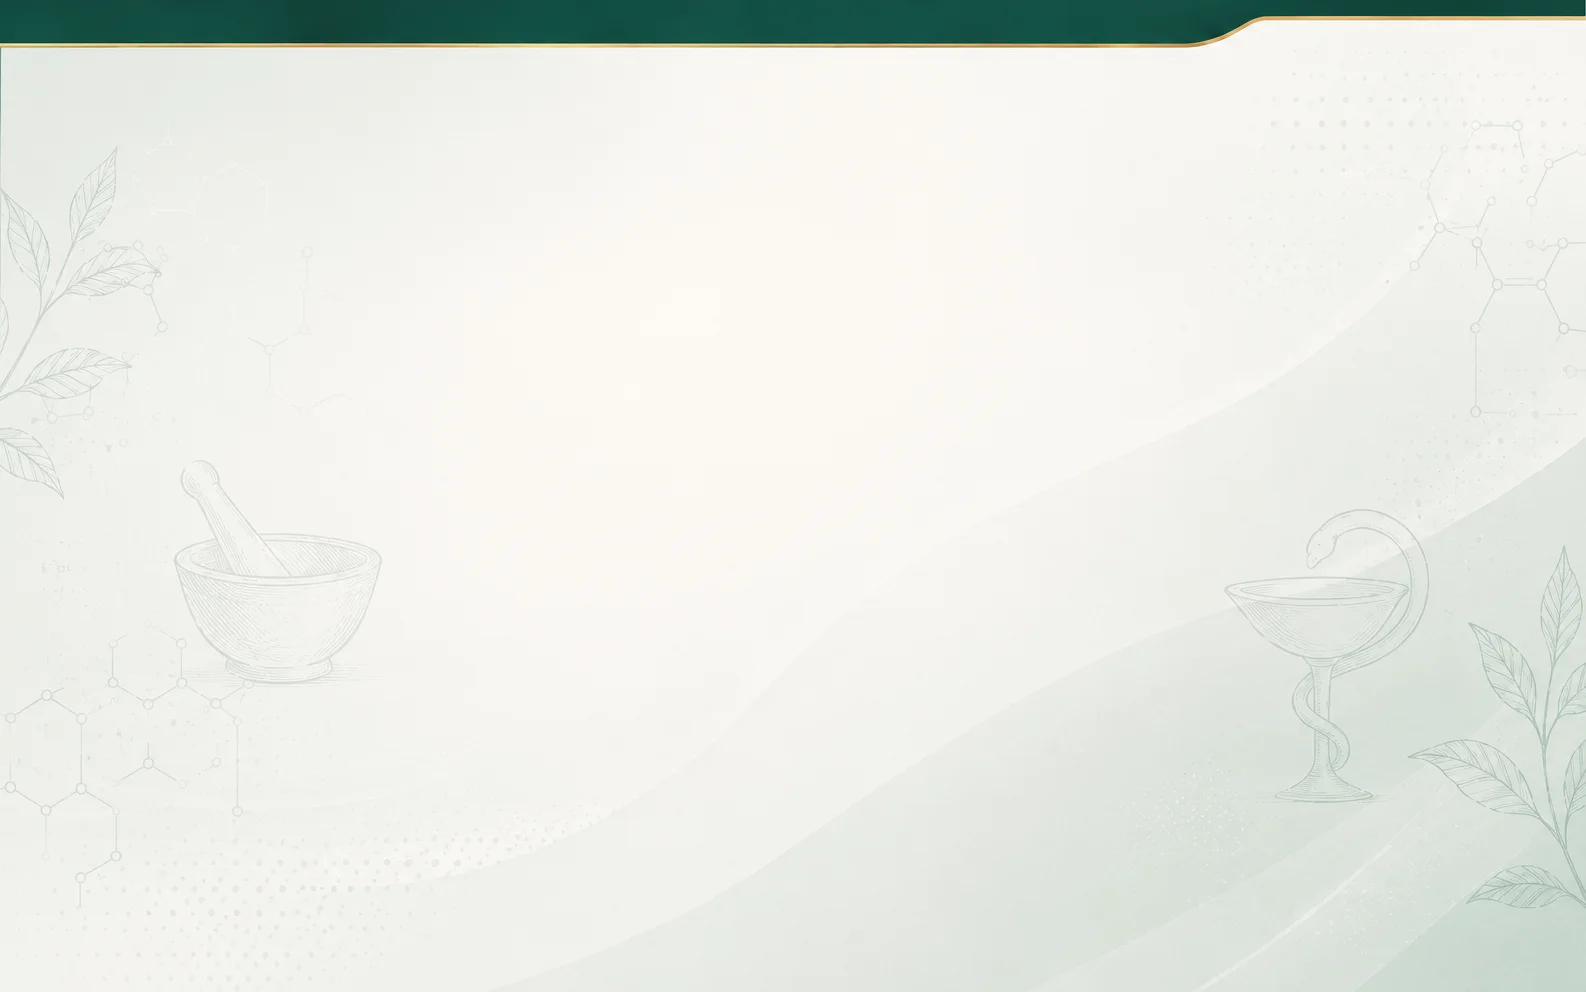
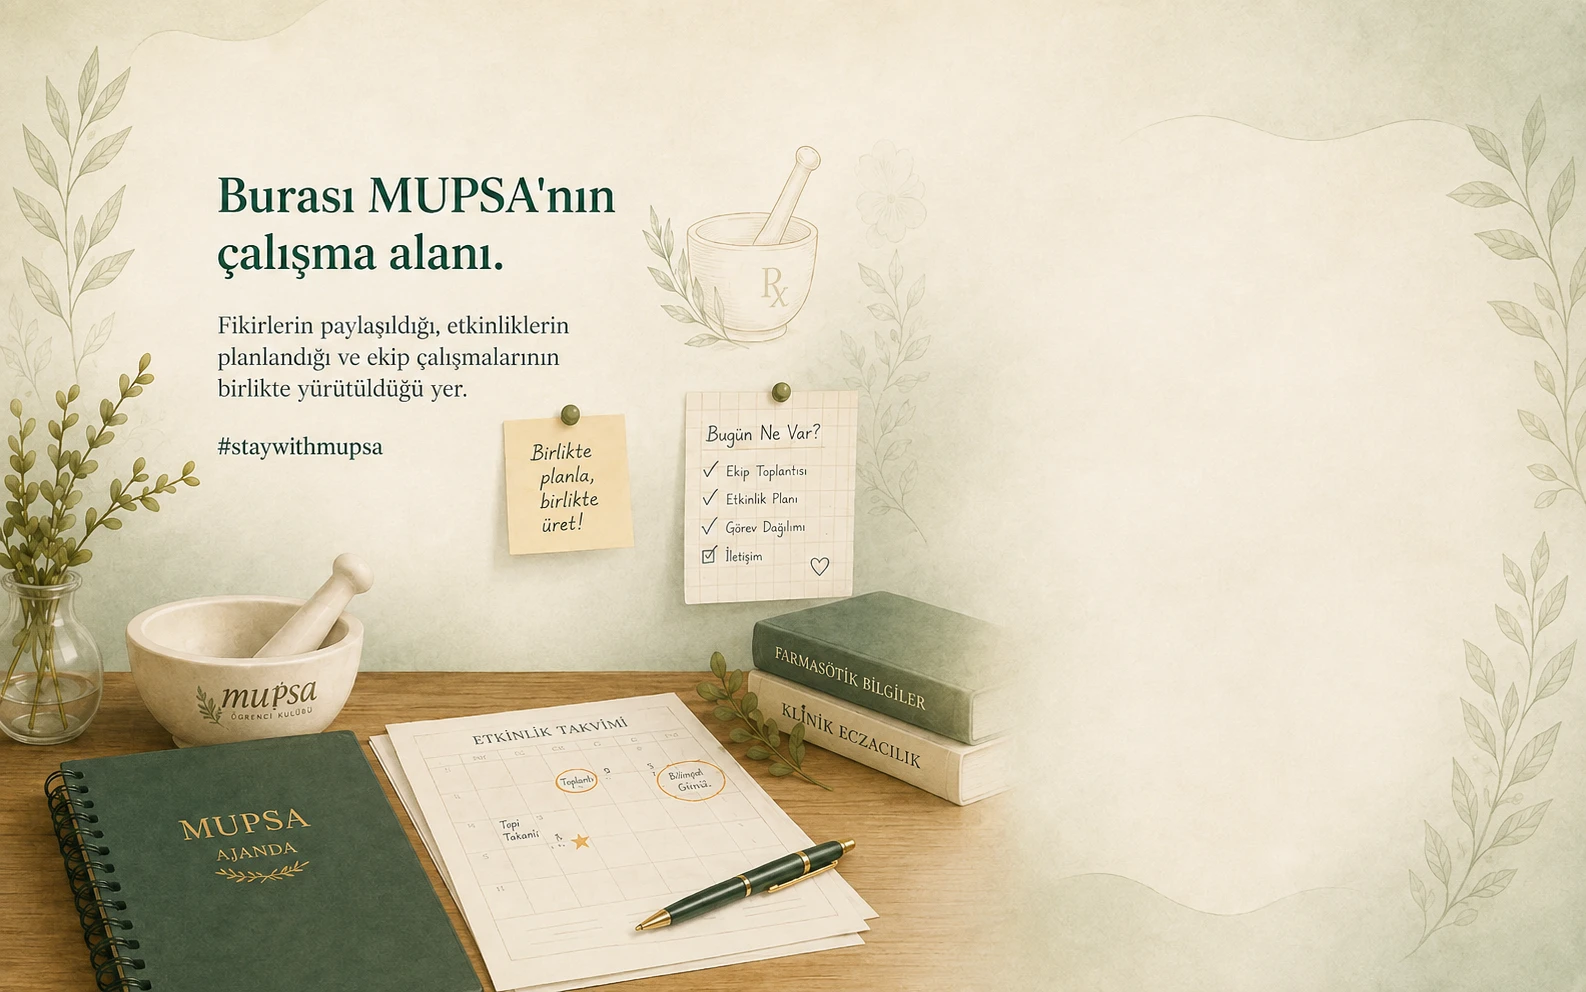
feat: refresh responsive login screen

diff --git a/src/pages/Login.tsx b/src/pages/Login.tsx
@@ -1,4 +1,4 @@
-import { useState, type FormEvent } from 'react'
+import { useState, type FormEvent, type ReactNode } from 'react'
 import { useNavigate } from 'react-router-dom'
 import { supabase } from '../lib/supabaseClient'
 
@@ -31,79 +31,112 @@ export default function Login() {
     navigate('/app')
   }
 
-  return (
-    <div className="relative flex min-h-screen items-center justify-center overflow-hidden bg-canvas px-4 py-12">
-      <picture className="absolute inset-0" aria-hidden="true">
-        <source media="(max-width: 639px)" srcSet="/login-bg-mobile.webp" />
-        <img
-          src="/login-bg-desktop.webp"
-          alt=""
-          className="h-full w-full object-cover object-center"
-        />
-      </picture>
-      <div className="absolute inset-0 bg-white/35" aria-hidden="true" />
-      <div className="relative z-10 w-full max-w-sm">
-        <div className="mb-8 flex flex-col items-center gap-3 text-center">
-          <img src="/mupsa-logo.svg" alt="MUPSA Logo" className="h-16 w-auto object-contain" />
-          <div>
-            <h1 className="text-lg font-semibold text-ink">MUPSA Ekip Koordinasyon</h1>
-            <p className="mt-1 text-sm text-ink-soft">Yönetim kurulu girişi</p>
+  function renderFormFields(idPrefix: string): ReactNode {
+    const emailId = `${idPrefix}-email`
+    const passwordId = `${idPrefix}-password`
+
+    return (
+      <>
+        <div>
+          <label htmlFor={emailId} className="mb-1.5 block text-sm font-medium text-ink">E-posta adresi</label>
+          <input
+            id={emailId}
+            type="email"
+            required
+            autoComplete="email"
+            value={email}
+            onChange={(event) => setEmail(event.target.value)}
+            placeholder="ad.soyad@ornek.com"
+            className="w-full rounded-md border border-canvas-border bg-canvas-surface px-3 py-2.5 text-sm text-ink placeholder:text-ink-soft/60 focus:border-brand focus:outline-none focus:ring-2 focus:ring-brand/20"
+          />
+        </div>
+        <div>
+          <label htmlFor={passwordId} className="mb-1.5 block text-sm font-medium text-ink">Şifre</label>
+          <div className="relative">
+            <input
+              id={passwordId}
+              type={showPassword ? 'text' : 'password'}
+              required
+              autoComplete="current-password"
+              value={password}
+              onChange={(event) => setPassword(event.target.value)}
+              placeholder="••••••••"
+              className="w-full rounded-md border border-canvas-border bg-canvas-surface px-3 py-2.5 pr-14 text-sm text-ink placeholder:text-ink-soft/60 focus:border-brand focus:outline-none focus:ring-2 focus:ring-brand/20"
+            />
+            <button
+              type="button"
+              onClick={() => setShowPassword((visible) => !visible)}
+              className="absolute inset-y-0 right-0 flex items-center pr-3 text-xs font-medium text-ink-soft hover:text-ink focus:outline-none"
+            >
+              {showPassword ? 'Gizle' : 'Göster'}
+            </button>
           </div>
         </div>
-        <div className="rounded-lg border border-canvas-border bg-canvas-surface/95 p-6 shadow-card backdrop-blur-[2px]">
-          <form onSubmit={handleSubmit} className="flex flex-col gap-4">
-            <div>
-              <label htmlFor="email" className="mb-1.5 block text-sm font-medium text-ink">
-                E-posta adresi
-              </label>
-              <input
-                id="email"
-                type="email"
-                required
-                autoComplete="email"
-                value={email}
-                onChange={(event) => setEmail(event.target.value)}
-                placeholder="ad.soyad@ornek.com"
-                className="w-full rounded-md border border-canvas-border bg-canvas-surface px-3 py-2.5 text-sm text-ink placeholder:text-ink-soft/60 focus:border-brand focus:outline-none focus:ring-2 focus:ring-brand/20"
-              />
-            </div>
-            <div>
-              <label htmlFor="password" className="mb-1.5 block text-sm font-medium text-ink">
-                Şifre
-              </label>
-              <div className="relative">
-                <input
-                  id="password"
-                  type={showPassword ? 'text' : 'password'}
-                  required
-                  autoComplete="current-password"
-                  value={password}
-                  onChange={(event) => setPassword(event.target.value)}
-                  placeholder="••••••••"
-                  className="w-full rounded-md border border-canvas-border bg-canvas-surface px-3 py-2.5 pr-14 text-sm text-ink placeholder:text-ink-soft/60 focus:border-brand focus:outline-none focus:ring-2 focus:ring-brand/20"
-                />
-                <button
-                  type="button"
-                  onClick={() => setShowPassword((visible) => !visible)}
-                  className="absolute inset-y-0 right-0 flex items-center pr-3 text-xs font-medium text-ink-soft hover:text-ink focus:outline-none"
-                >
-                  {showPassword ? 'Gizle' : 'Göster'}
-                </button>
+        {status === 'error' && (
+          <p role="alert" className="rounded-md bg-danger-soft px-3 py-2 text-sm text-danger">{errorMessage}</p>
+        )}
+        <button
+          type="submit"
+          disabled={status === 'loading'}
+          className="mt-1 rounded-md bg-brand px-4 py-2.5 text-sm font-medium text-canvas transition-colors hover:bg-brand-dark disabled:cursor-not-allowed disabled:opacity-60"
+        >
+          {status === 'loading' ? 'Giriş yapılıyor…' : 'Giriş yap'}
+        </button>
+      </>
+    )
+  }
+
+  const introHeading = "Burası MUPSA'nın çalışma alanı."
+  const introBody = 'Fikirlerin paylaşıldığı, etkinliklerin planlandığı ve ekip çalışmalarının birlikte yürütüldüğü yer.'
+  const introTag = '#staywithmupsa'
+
+  return (
+    <div className="min-h-screen bg-canvas">
+      <div className="hidden min-h-screen md:grid md:grid-cols-2">
+        <div className="relative flex items-center overflow-hidden px-12 lg:px-16">
+          <img src="/login-bg-desktop.webp" alt="" aria-hidden="true" className="absolute inset-0 h-full w-full object-cover object-center" />
+          <div className="absolute inset-0 bg-white/35" aria-hidden="true" />
+          <div className="relative z-10 max-w-md">
+            <h1 className="text-3xl font-semibold leading-tight text-brand-dark lg:text-4xl">{introHeading}</h1>
+            <p className="mt-4 text-base text-ink-soft">{introBody}</p>
+            <p className="mt-6 text-sm font-medium text-ink-soft">{introTag}</p>
+          </div>
+        </div>
+        <div className="flex items-center justify-center bg-canvas-surface px-12 py-12 lg:px-16">
+          <div className="w-full max-w-sm">
+            <div className="mb-8 flex flex-col items-center gap-3 text-center">
+              <img src="/mupsa-logo.svg" alt="MUPSA Logo" className="h-16 w-auto object-contain" />
+              <div>
+                <h2 className="text-lg font-semibold text-ink">MUPSA Ekip Koordinasyon</h2>
+                <p className="mt-1 text-sm text-ink-soft">Yönetim kurulu girişi</p>
               </div>
             </div>
-            {status === 'error' && (
-              <p role="alert" className="rounded-md bg-danger-soft px-3 py-2 text-sm text-danger">
-                {errorMessage}
-              </p>
-            )}
-            <button
-              type="submit"
-              disabled={status === 'loading'}
-              className="mt-1 rounded-md bg-brand px-4 py-2.5 text-sm font-medium text-canvas transition-colors hover:bg-brand-dark disabled:cursor-not-allowed disabled:opacity-60"
-            >
-              {status === 'loading' ? 'Giriş yapılıyor…' : 'Giriş yap'}
-            </button>
-          </form>
+            <form onSubmit={handleSubmit} className="flex flex-col gap-4">{renderFormFields('desktop')}</form>
+          </div>
+        </div>
+      </div>
+
+      <div className="relative flex min-h-screen w-full flex-col overflow-hidden px-5 py-10 md:hidden">
+        <img src="/login-bg-mobile.webp" alt="" aria-hidden="true" className="absolute inset-0 h-full w-full object-cover object-center" />
+        <div className="absolute inset-0 bg-white/35" aria-hidden="true" />
+        <div className="relative z-10 flex flex-1 flex-col">
+          <div className="flex flex-col items-center gap-3 text-center">
+            <img src="/mupsa-logo.svg" alt="MUPSA Logo" className="h-14 w-auto object-contain" />
+            <div>
+              <h1 className="text-xl font-semibold leading-tight text-brand-dark">{introHeading}</h1>
+              <p className="mt-2 text-sm text-ink-soft">{introBody}</p>
+              <p className="mt-3 text-xs font-medium text-ink-soft">{introTag}</p>
+            </div>
+          </div>
+          <div className="mt-auto pt-10">
+            <div className="rounded-lg border border-canvas-border bg-canvas-surface/95 p-6 shadow-card backdrop-blur-[2px]">
+              <div className="mb-4 text-center">
+                <h2 className="text-base font-semibold text-ink">MUPSA Ekip Koordinasyon</h2>
+                <p className="mt-1 text-sm text-ink-soft">Yönetim kurulu girişi</p>
+              </div>
+              <form onSubmit={handleSubmit} className="flex flex-col gap-4">{renderFormFields('mobile')}</form>
+            </div>
+          </div>
         </div>
       </div>
     </div>
